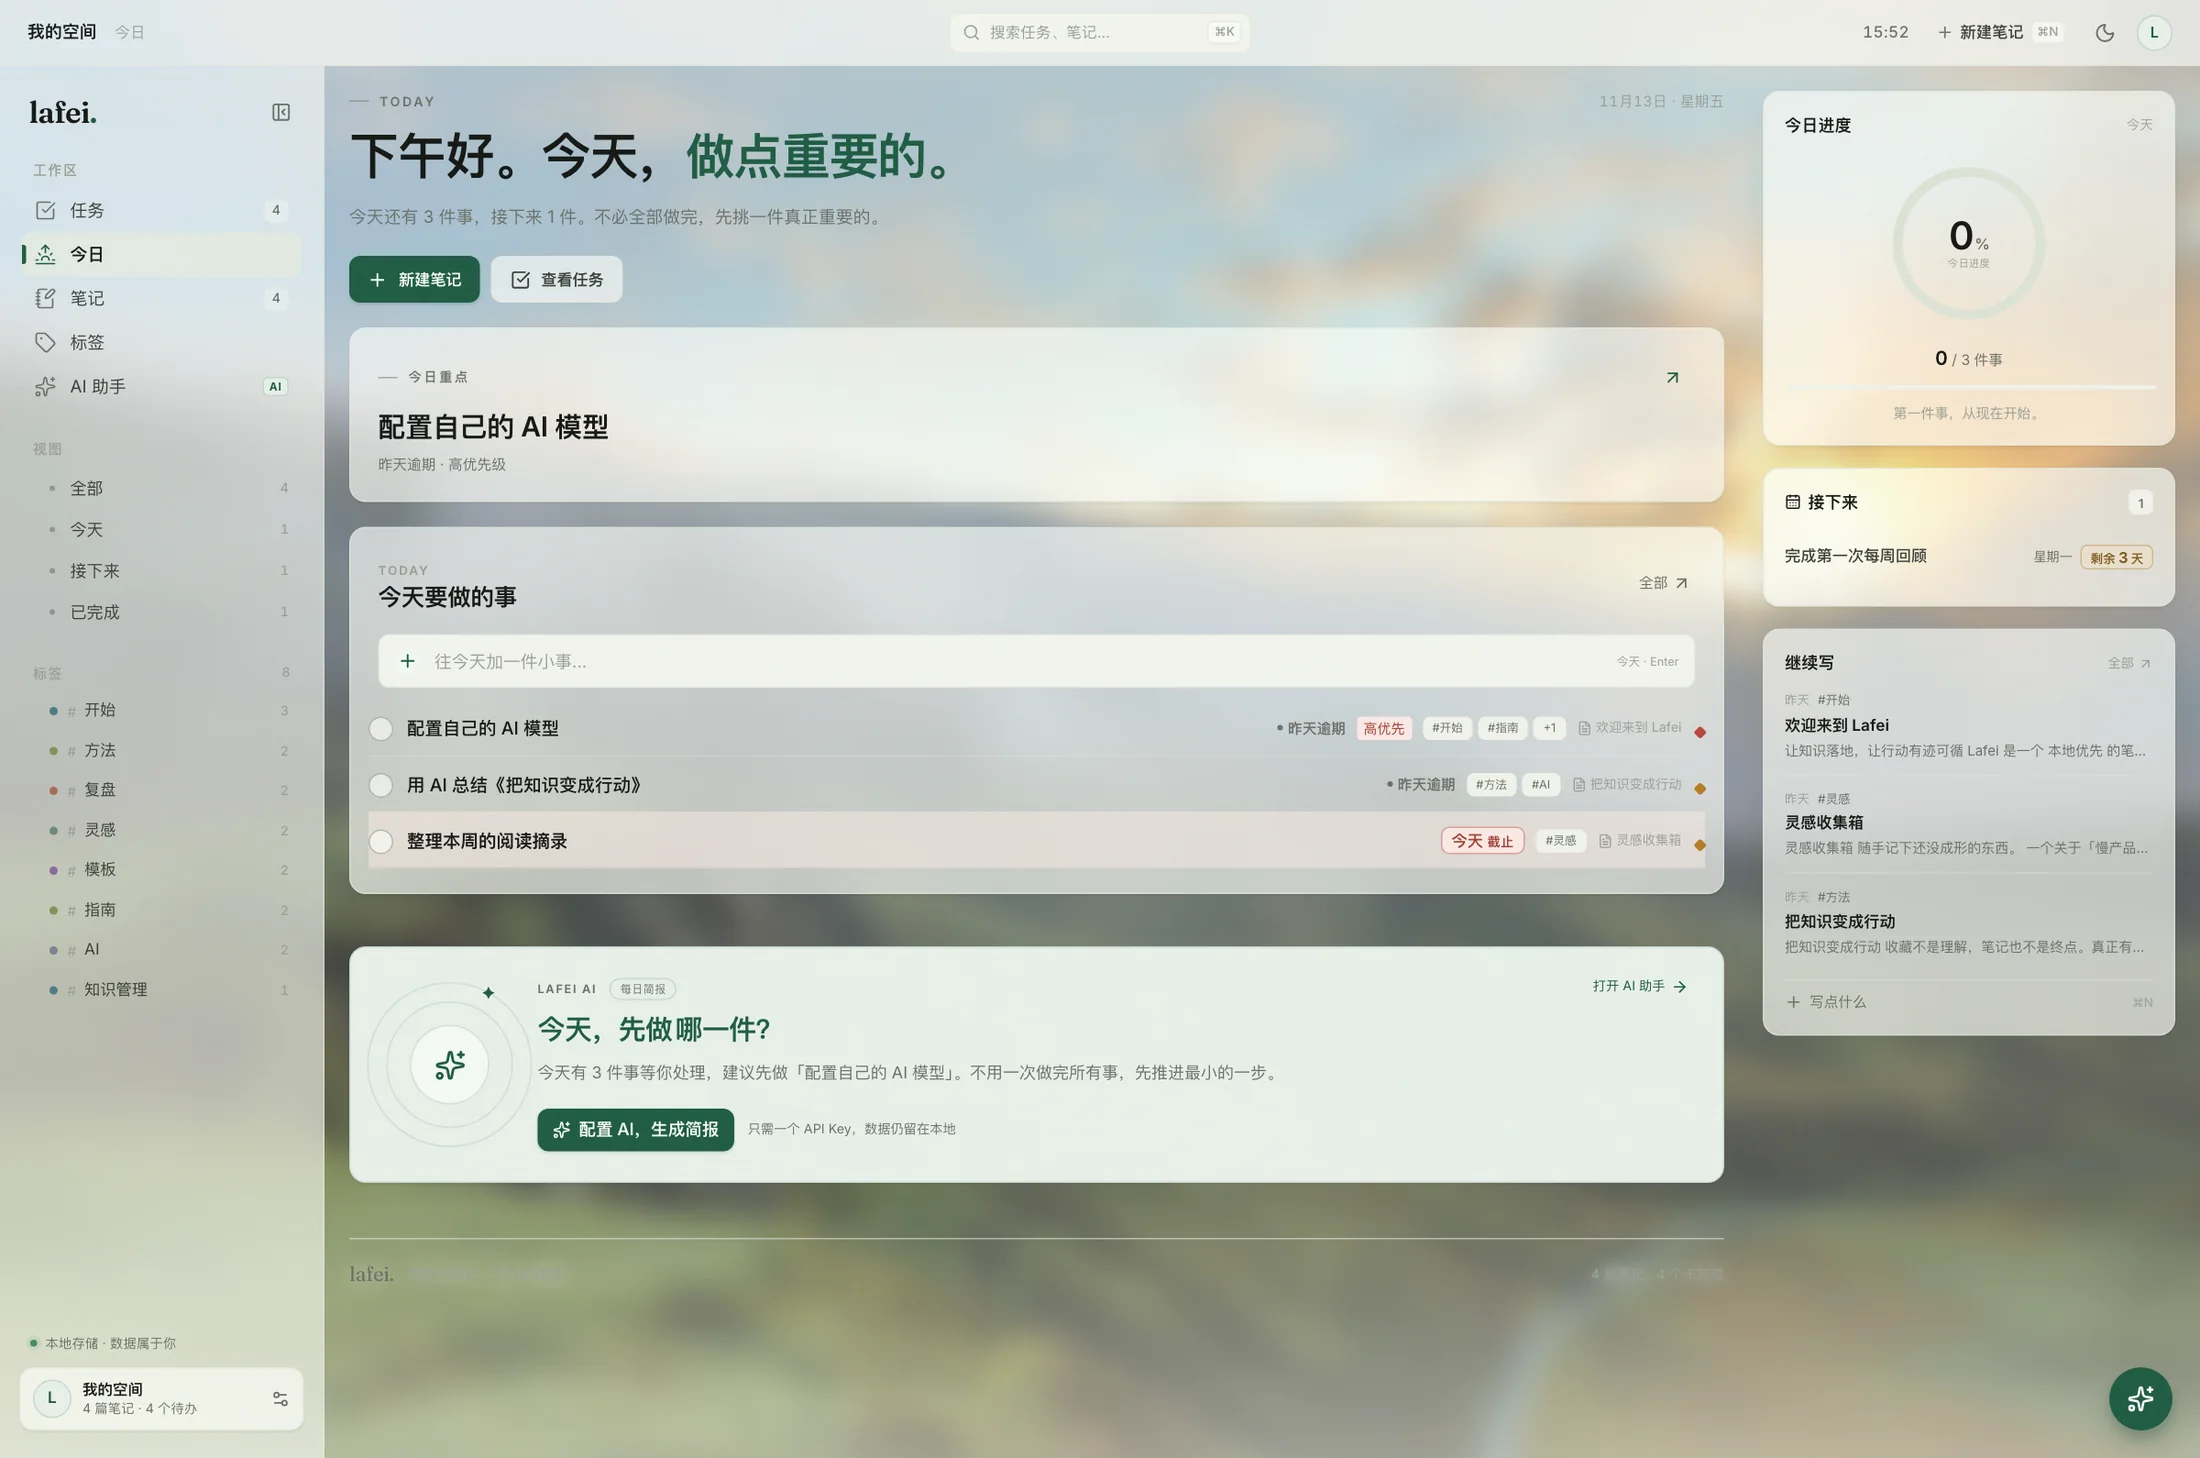
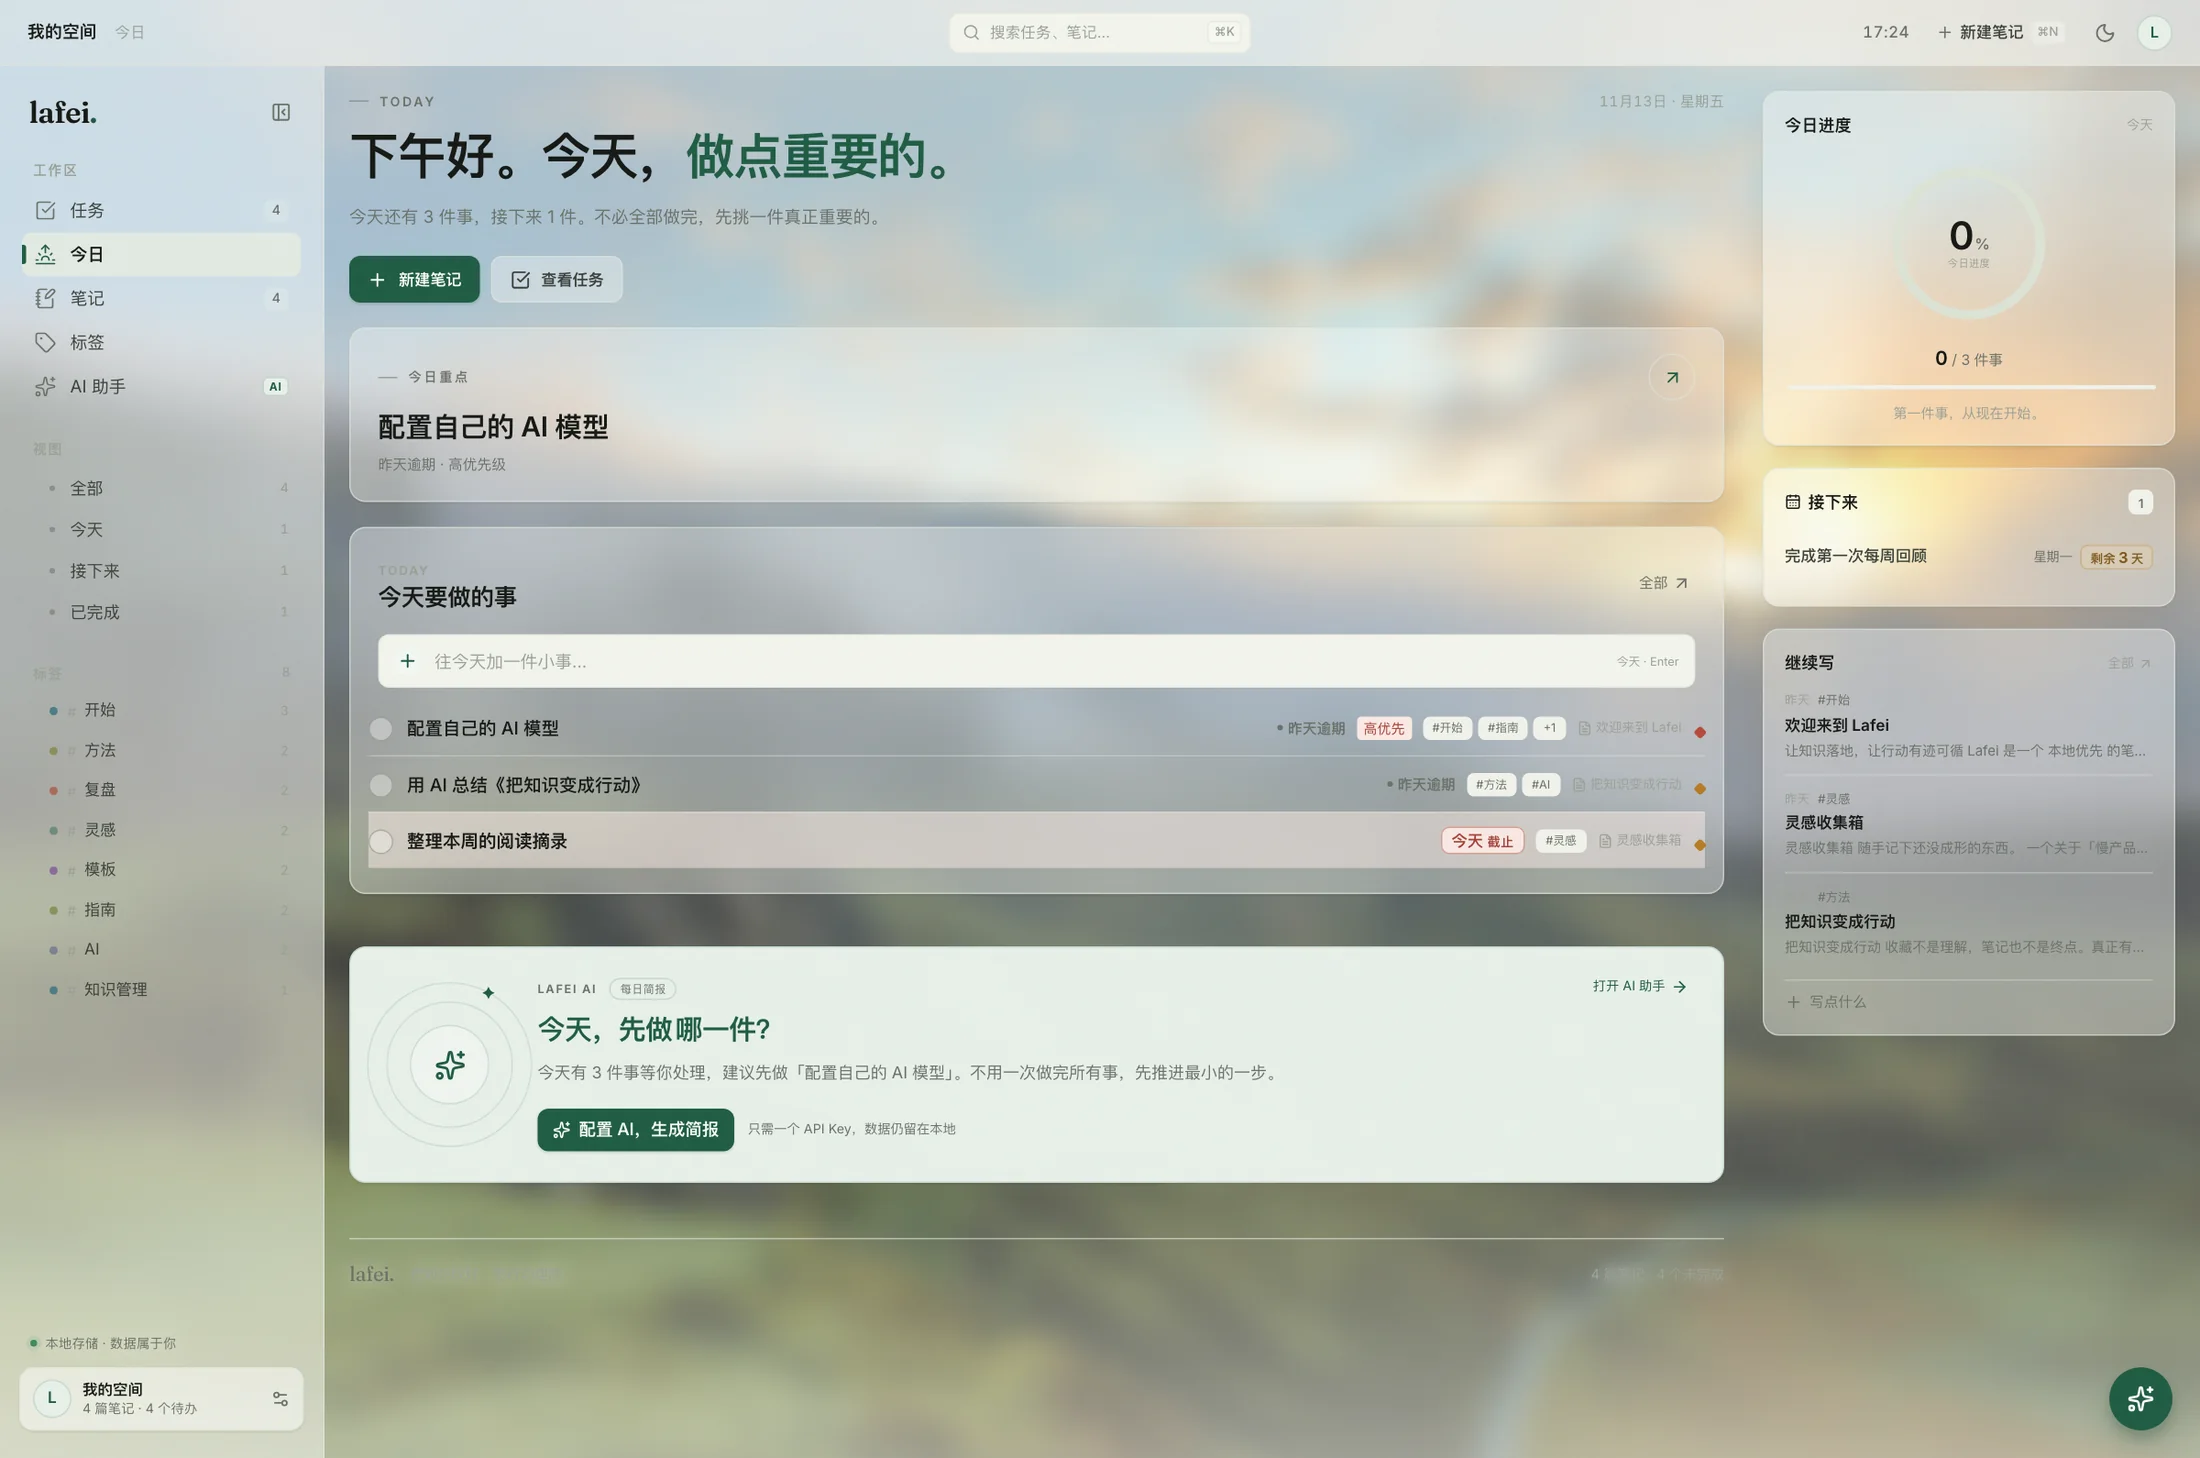
chore(release): 0.22.4 — 工作区所有页面都透出背景
- 今日 / 任务 / 笔记 / 标签 / AI 助手统一降低玻璃厚度：通透档卡片 36%、侧栏 48%、顶栏 54%、笔记纸面 62%
- 平衡 / 沉稳同步下调；输入框与对话输入区保持实底，笔记列表、快速对话面板单独加厚
- 背景截图补齐五个工作区页面，README / CHANGELOG 同步

Changed region(s): [[0.1545, 0.1543, 0.9891, 0.7099]]

diff --git a/src/wallpaper.css b/src/wallpaper.css
@@ -132,24 +132,24 @@ html[data-wallpaper="on"] .app-main {
 
 /* 三档面板通透度：通透 / 平衡 / 沉稳 */
 html[data-wallpaper="on"][data-wallpaper-glass="clear"] {
-  --wp-card-a: 0.64;
-  --wp-side-a: 0.6;
-  --wp-top-a: 0.66;
-  --wp-read-a: 0.8;
+  --wp-card-a: 0.36;
+  --wp-side-a: 0.48;
+  --wp-top-a: 0.54;
+  --wp-read-a: 0.62;
 }
 
 html[data-wallpaper="on"][data-wallpaper-glass="balanced"] {
-  --wp-card-a: 0.8;
-  --wp-side-a: 0.76;
-  --wp-top-a: 0.83;
-  --wp-read-a: 0.92;
+  --wp-card-a: 0.62;
+  --wp-side-a: 0.66;
+  --wp-top-a: 0.72;
+  --wp-read-a: 0.82;
 }
 
 html[data-wallpaper="on"][data-wallpaper-glass="solid"] {
-  --wp-card-a: 0.92;
+  --wp-card-a: 0.88;
   --wp-side-a: 0.9;
-  --wp-top-a: 0.94;
-  --wp-read-a: 0.97;
+  --wp-top-a: 0.92;
+  --wp-read-a: 0.95;
 }
 
 /* 长文阅读面再多一点底，正文不受背景干扰 */
@@ -212,12 +212,22 @@ html[data-wallpaper="on"] .wb-quad-q4 .wb-quad-head {
 
   html[data-wallpaper="on"] .notes-list-pane {
     overflow: hidden;
+    background: rgb(var(--wall-glass-rgb) / calc(var(--wp-card-a, 0.36) + 0.08 + var(--wp-alpha-bonus, 0)));
   }
+}
+
+html[data-wallpaper="on"] .wb-tasks .task-row .task-check.is-done {
+  color: #f8fbf7;
+}
+
+/* 输入框、对话输入区这类要落字的地方保持实底，不跟着卡片一起透 */
+html[data-wallpaper="on"] .assistant-composer {
+  background: var(--wb-field);
 }
 
 /* 右下角快速对话是浮在壳层上的独立面板，读起来比卡片更要紧，底板单独加厚 */
 html[data-wallpaper="on"] .quick-ai-panel {
-  background: rgb(var(--wall-glass-rgb) / var(--wp-read-a, 0.92));
+  background: rgb(var(--wall-glass-rgb) / calc(var(--wp-read-a, 0.62) + 0.22));
   backdrop-filter: blur(20px) saturate(1.1);
   -webkit-backdrop-filter: blur(20px) saturate(1.1);
 }

diff --git a/README.md b/README.md
@@ -39,7 +39,7 @@
 
 | 平台 | 版本 | 说明 |
 | --- | --- | --- |
-| macOS（Apple Silicon） | [v0.22.3](https://github.com/tangf-ai/lafei/releases/latest) | `Lafei-0.22.3-macOS-arm64.dmg`，ad-hoc 签名、未公证；首次打开如被拦截，右键应用选「打开」 |
+| macOS（Apple Silicon） | [v0.22.4](https://github.com/tangf-ai/lafei/releases/latest) | `Lafei-0.22.4-macOS-arm64.dmg`，ad-hoc 签名、未公证；首次打开如被拦截，右键应用选「打开」 |
 | Web / PWA | 源码构建 | `pnpm build` 后把 `dist/` 部署到任意静态托管 |
 | Windows / Linux | 源码构建 | Tauri 2 支持，暂未提供预编译包 |
 
@@ -175,7 +175,7 @@
 
 - 设置 → 外观与写作 → 背景，可以给整个工作台铺一张**大背景**
 - 六套内置的「光雾」预设（晨雾 / 苔原 / 沙丘 / 海岸 / 暮橘 / 砚青）全部用 CSS 渐变画出来，离线可用、不占安装包；也可以选自己的照片（JPG / PNG / WebP），直接拖进设置页
-- 背景开启后，侧栏、顶栏和卡片会变成磨砂玻璃，背景从纸缝里透出来；「通透 / 平衡 / 沉稳」三档调节面板透出程度
+- 背景开启后，今日、任务、笔记、标签、AI 助手五个页面共用一套玻璃：侧栏、顶栏和卡片只剩一层薄雾，背景从内容下面直接透出来；「通透 / 平衡 / 沉稳」三档调节面板厚度
 - 背景模糊与遮罩浓度可以单独调：照片再花，正文和标题也读得清
 - 应用铺满整个窗口，外圈不留空隙
 - 背景跟随主题：玻璃底色、遮罩和页脚柔光会切换成对应主题的纸色或墨色
@@ -194,6 +194,10 @@
 | 任务 · 四象限 | 笔记 · 桌面上的纸 |
 | --- | --- |
 | ![任务页背景](docs/screenshots/v4/wallpaper-tasks.webp) | ![笔记页背景](docs/screenshots/v4/wallpaper-notes.webp) |
+
+| 标签 · 一屏标签卡 | AI 助手 · 对话空状态 |
+| --- | --- |
+| ![标签页背景](docs/screenshots/v4/wallpaper-tags.webp) | ![助手页背景](docs/screenshots/v4/wallpaper-assistant.webp) |
 
 ### 可读性
 
@@ -229,9 +233,9 @@ pnpm desktop:build   # 生成 .app / .dmg（macOS）或对应平台安装包
 macOS 构建产物：
 
 ```text
-Lafei-0.22.3-macOS-arm64.dmg                                      # 可直接分发的安装包
+Lafei-0.22.4-macOS-arm64.dmg                                      # 可直接分发的安装包
 src-tauri/target/release/bundle/macos/Lafei.app                  # 未打包的应用
-src-tauri/target/release/bundle/dmg/Lafei_0.22.3_aarch64.dmg      # Tauri 原始产物
+src-tauri/target/release/bundle/dmg/Lafei_0.22.4_aarch64.dmg      # Tauri 原始产物
 ```
 
 > 构建产物（`.app` / `.dmg`）不进入 Git，正式版本请通过 GitHub Releases 分发。当前本地产物是 Apple Silicon（arm64）版本，使用 ad-hoc 签名，未做 Apple 公证；若系统提示无法验证，右键应用选择「打开」，或在终端执行：
@@ -427,7 +431,7 @@ scripts/mock-ai.mjs 本地 AI 演示服务
 
 ## 已知限制
 
-这是 `0.22.3`，一个可以真实日用的本地 MVP，但不是完成品：
+这是 `0.22.4`，一个可以真实日用的本地 MVP，但不是完成品：
 
 - 文件夹同步是文件级的、最终一致的，不是实时协作；冲突采用更新时间优先，没有逐行合并
 - 手机 PWA 不能直接读取 iCloud Drive；目前需要备份迁移，原生 iOS 版尚未生成

diff --git a/CHANGELOG.md b/CHANGELOG.md
@@ -3,6 +3,14 @@
 所有值得记录的变更都会写在这里。格式参考 [Keep a Changelog](https://keepachangelog.com/zh-CN/1.1.0/)，
 版本号遵循 [Semantic Versioning](https://semver.org/lang/zh-CN/)。
 
+## [0.22.4] - 2026-11-13
+
+### Changed
+
+- 工作区五个页面统一透明：今日、任务、笔记、标签、AI 助手的卡片玻璃从约 64% 降到 36%（通透档），顶栏 54%、侧栏 48%、笔记纸面 62%；「平衡 / 沉稳」同步下调，任何一档都能看到背景
+- 输入框、对话输入区保持实底；笔记列表与右下角快速对话面板单独加厚，长文和聊天仍然好读
+- 背景截图补齐今日 / 任务 / 笔记 / 标签 / AI 助手五个页面
+
 ## [0.22.3] - 2026-11-13
 
 ### Changed
